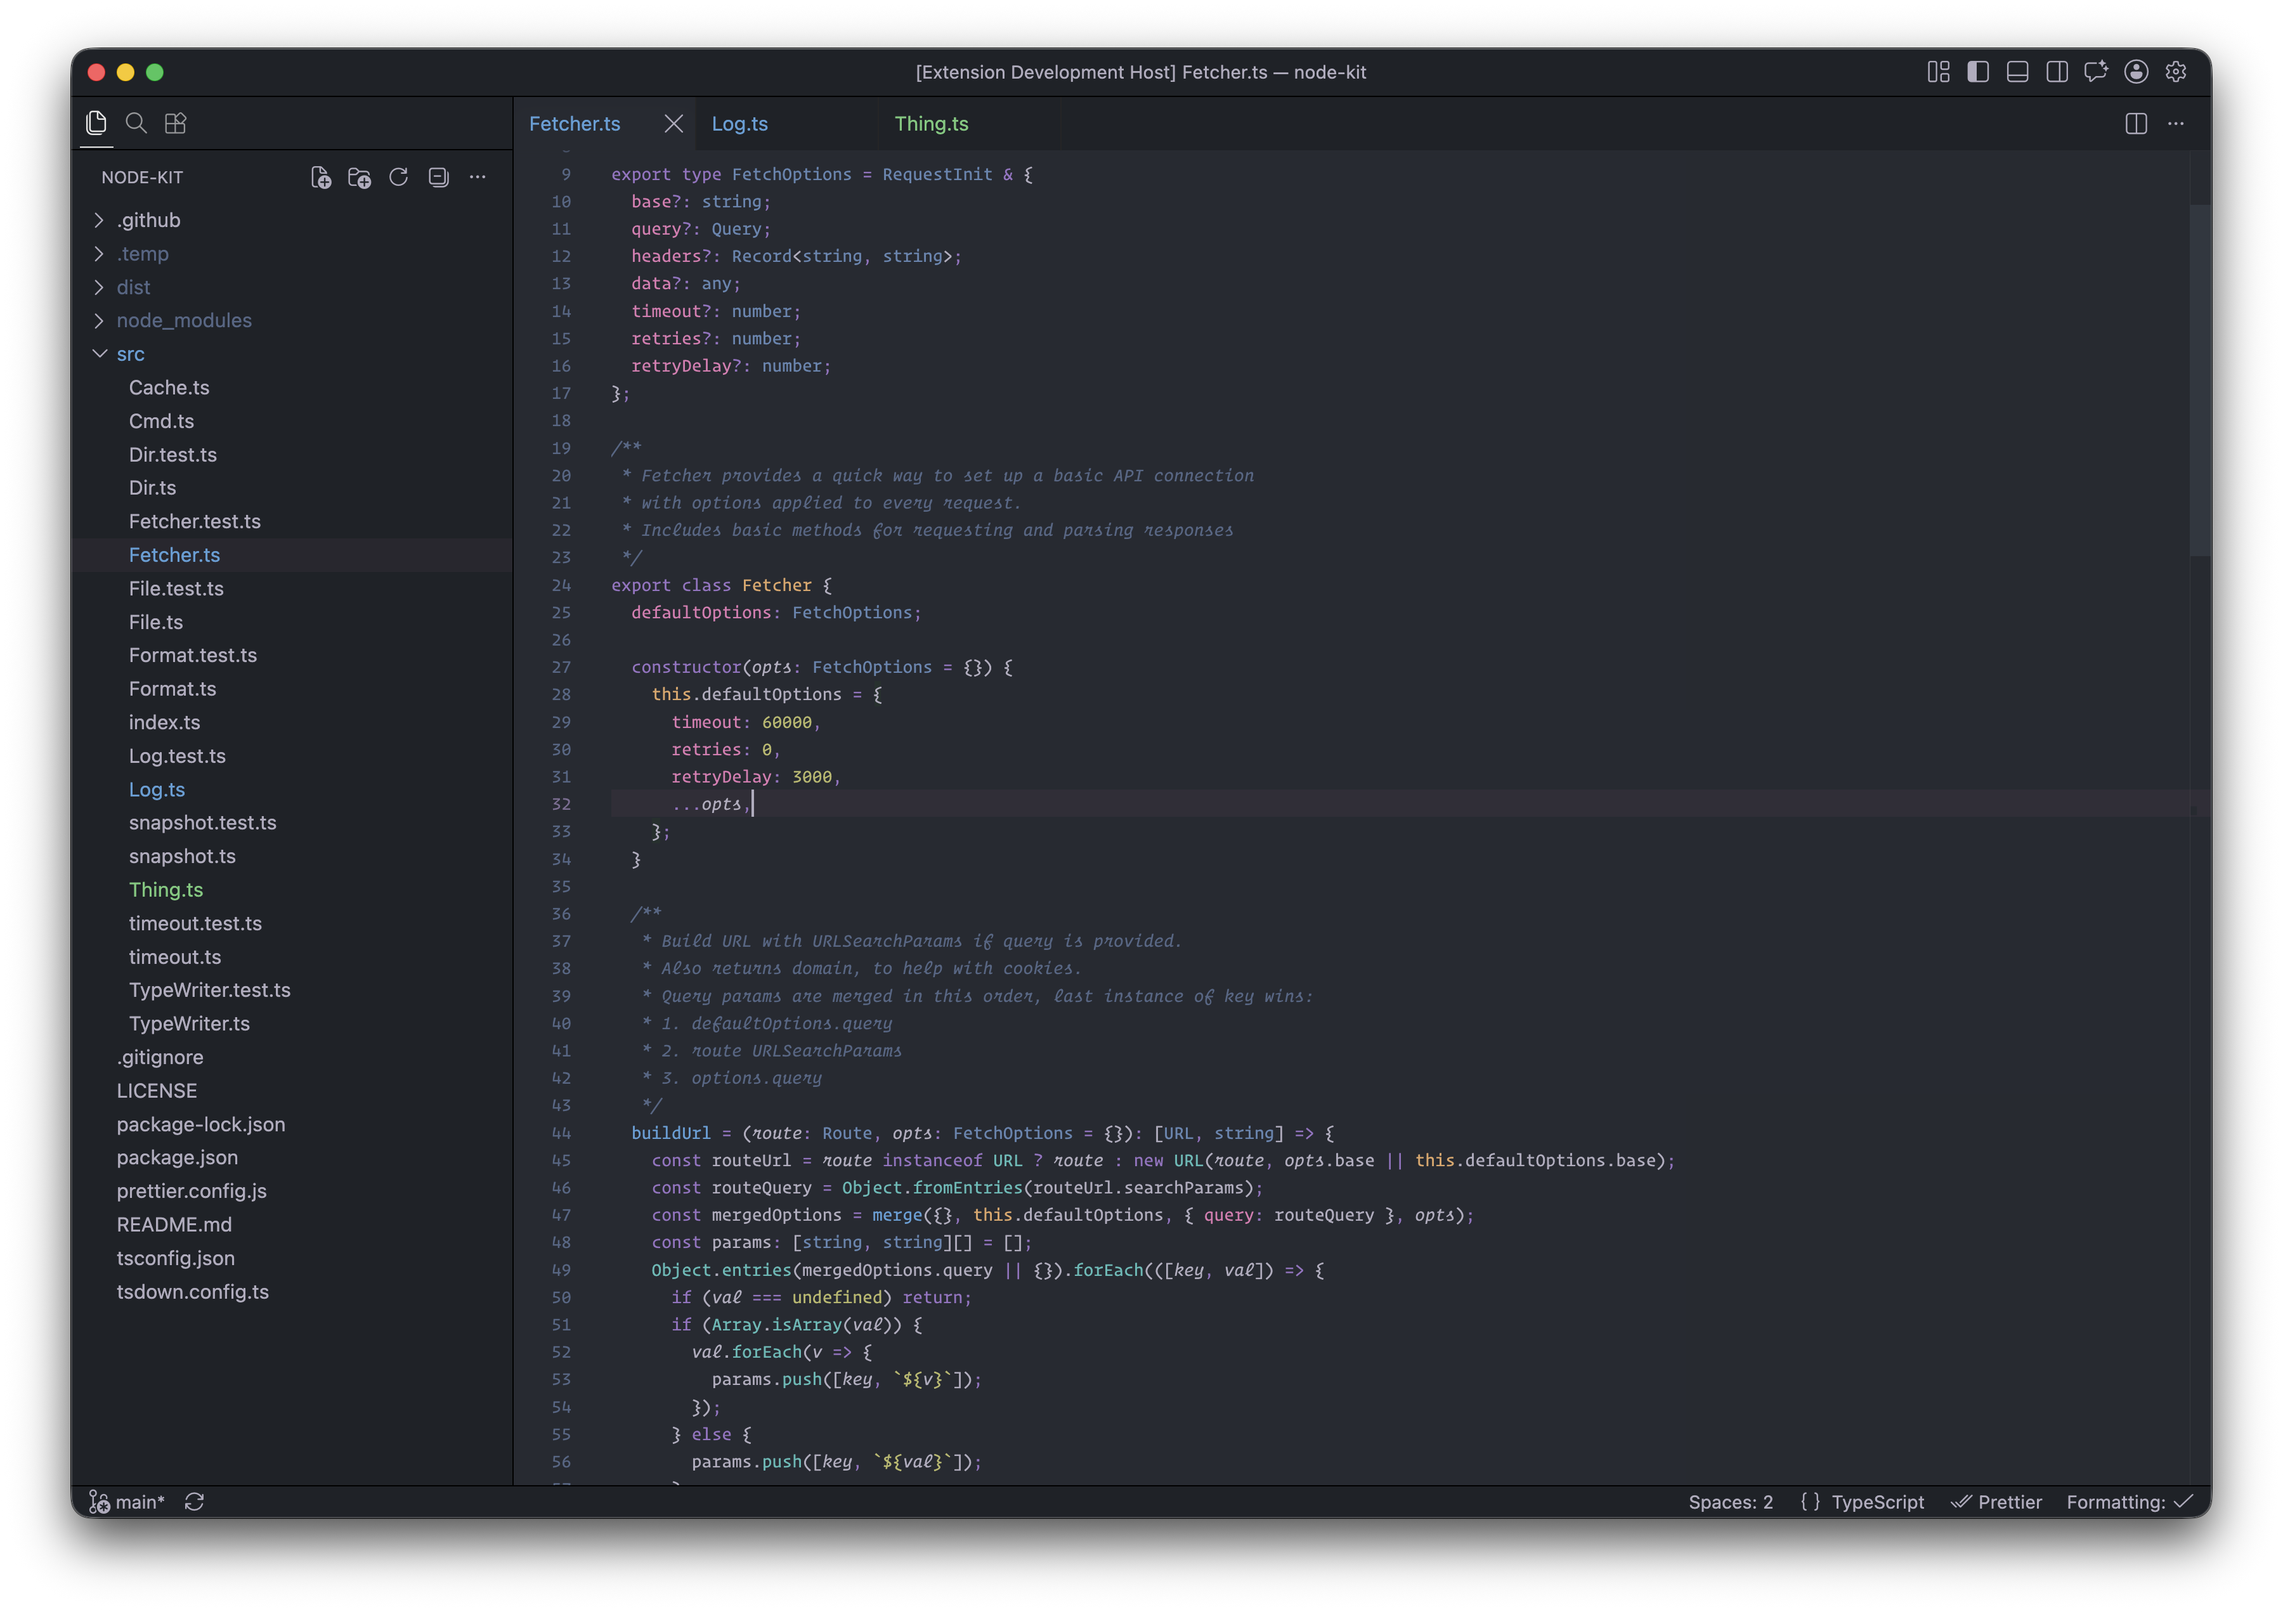
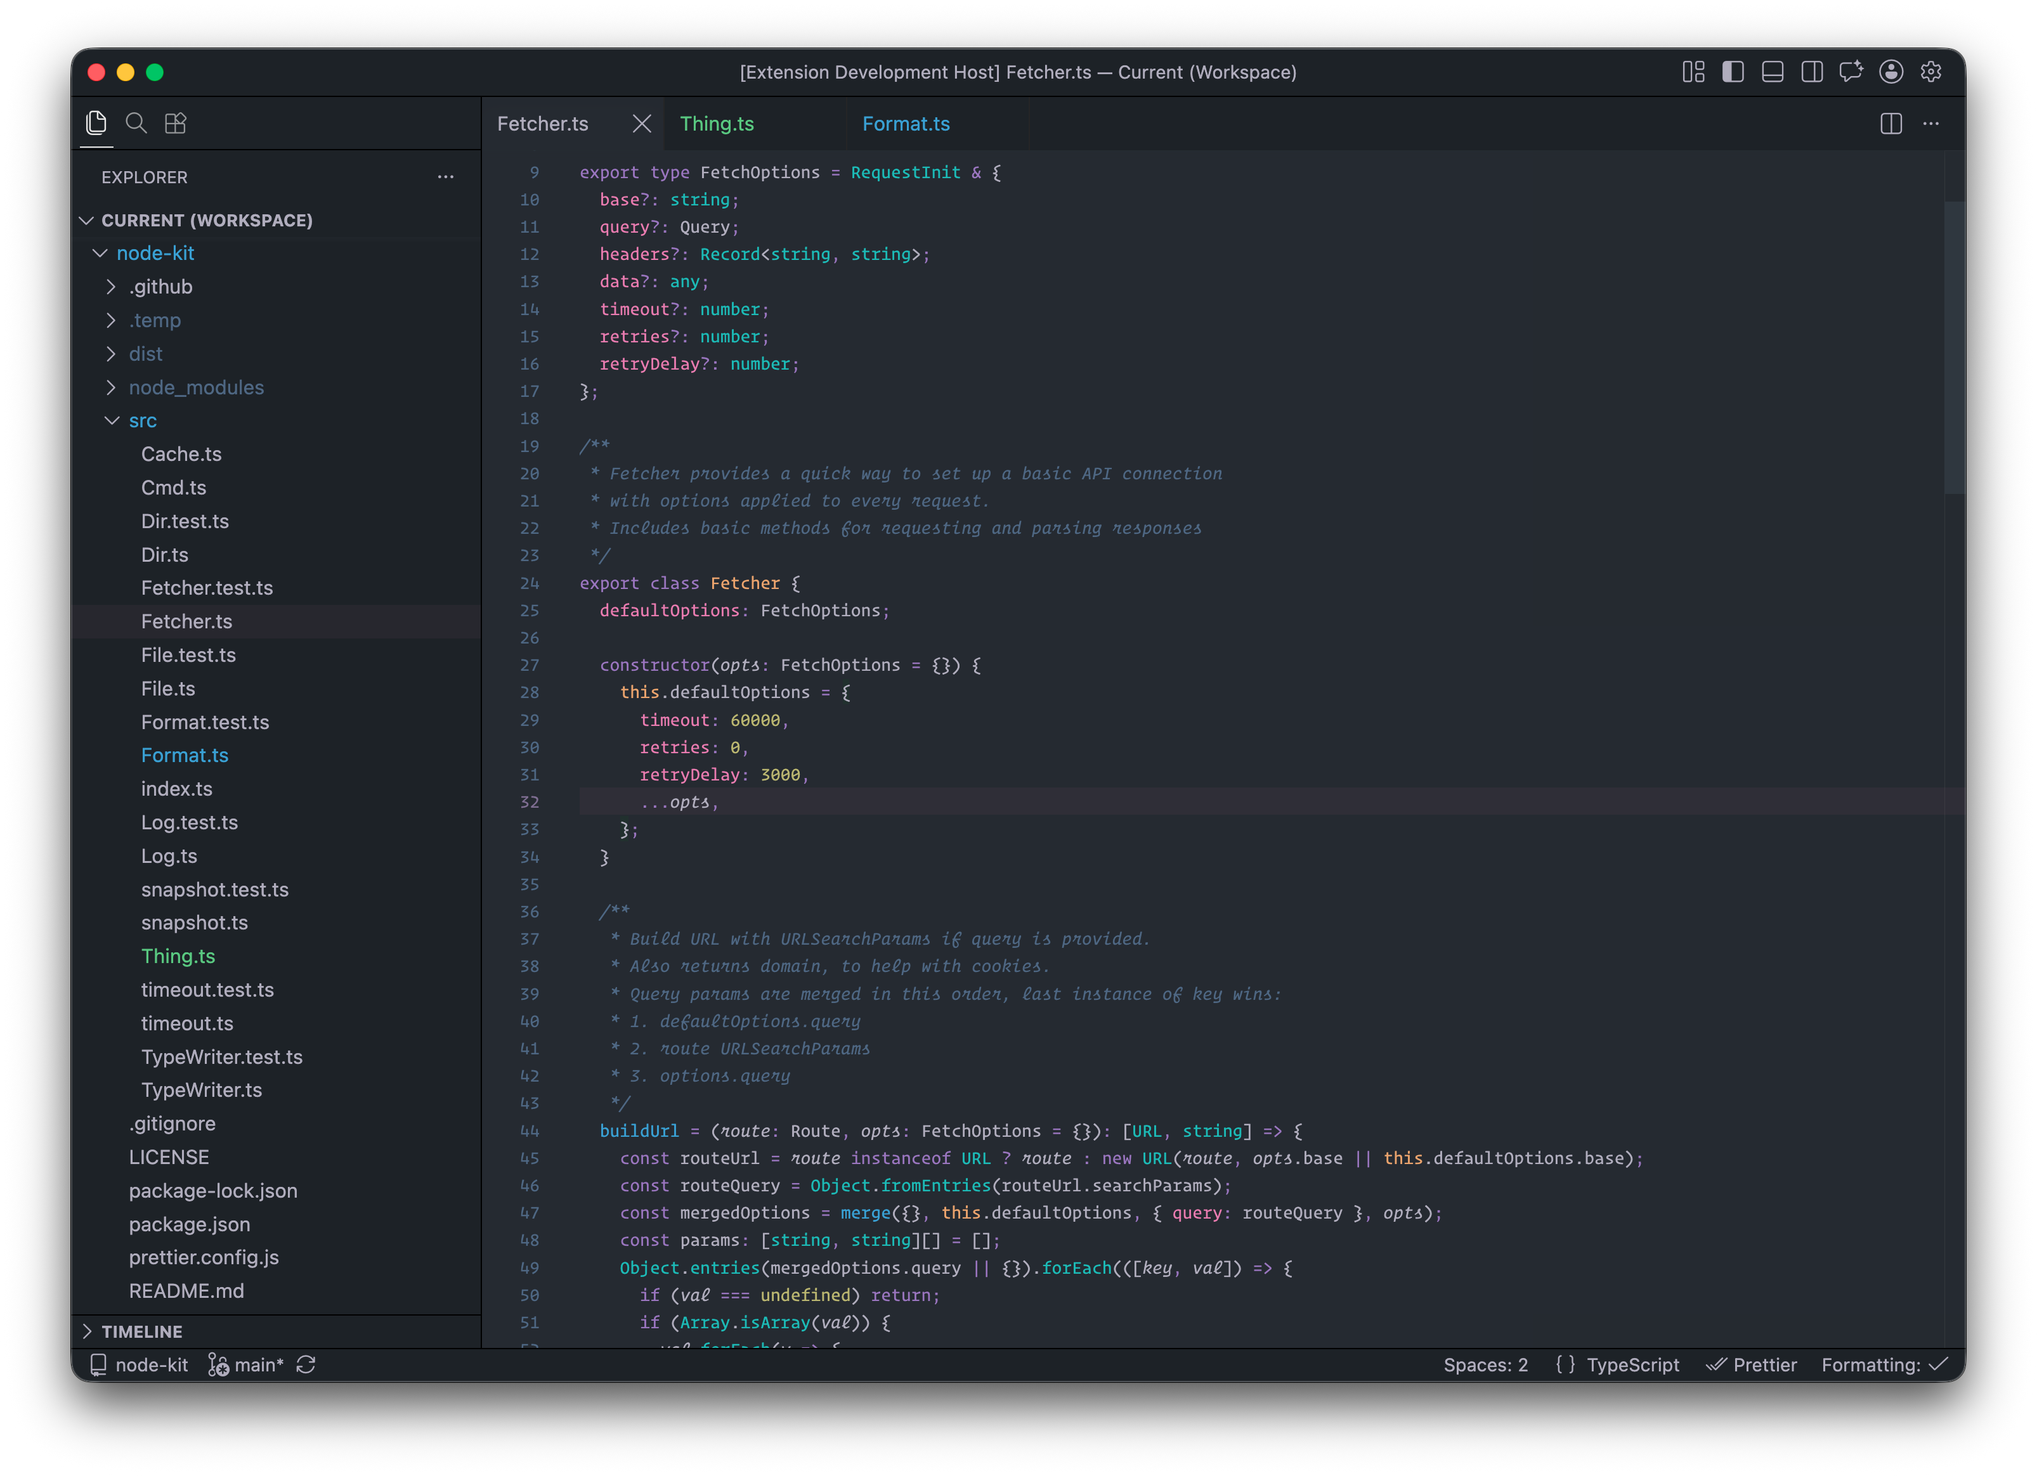
update screenshot, readme

diff --git a/README.md b/README.md
@@ -1,6 +1,6 @@
 # Work Shirt
 
-A dependable, well-worn color theme built around semantic syntax highlighting, a limited palette, and a minimalist workbench.
+A well-worn color theme built around semantic syntax highlighting, a limited palette, and a minimalist workbench.
 
 Download on [VS Code Marketplace](https://marketplace.visualstudio.com/items?itemName=BrianBuie.work-shirt)
 
